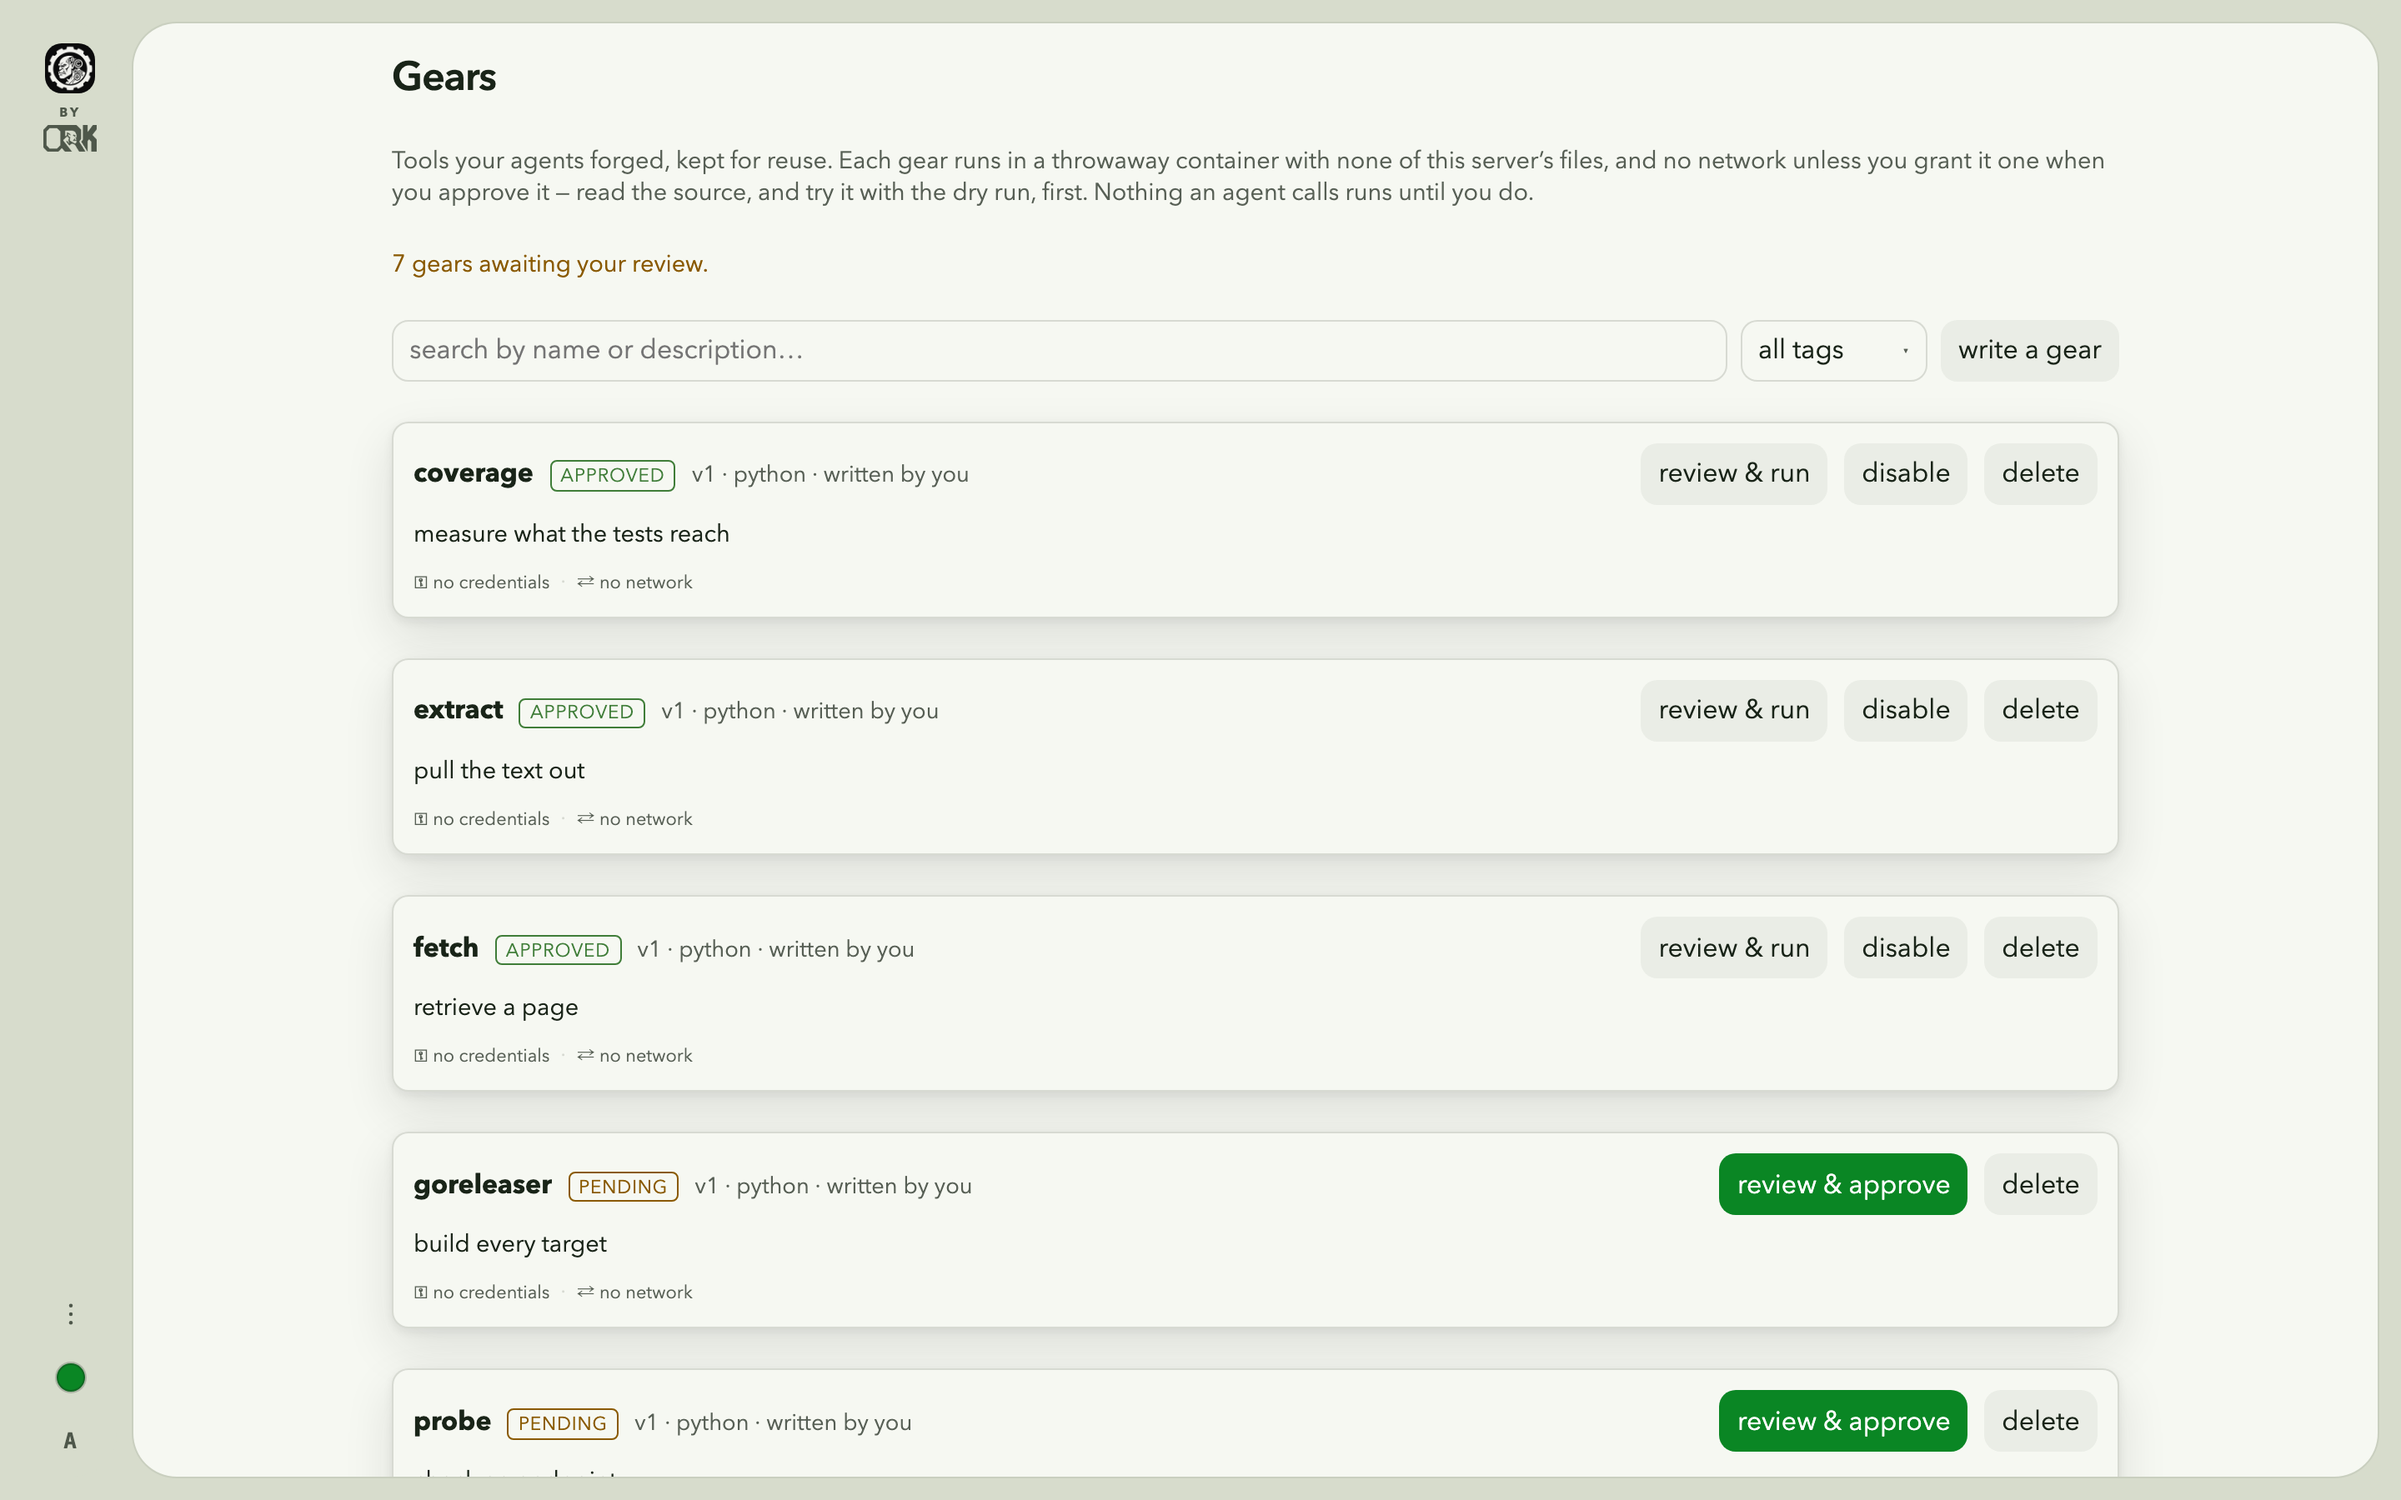
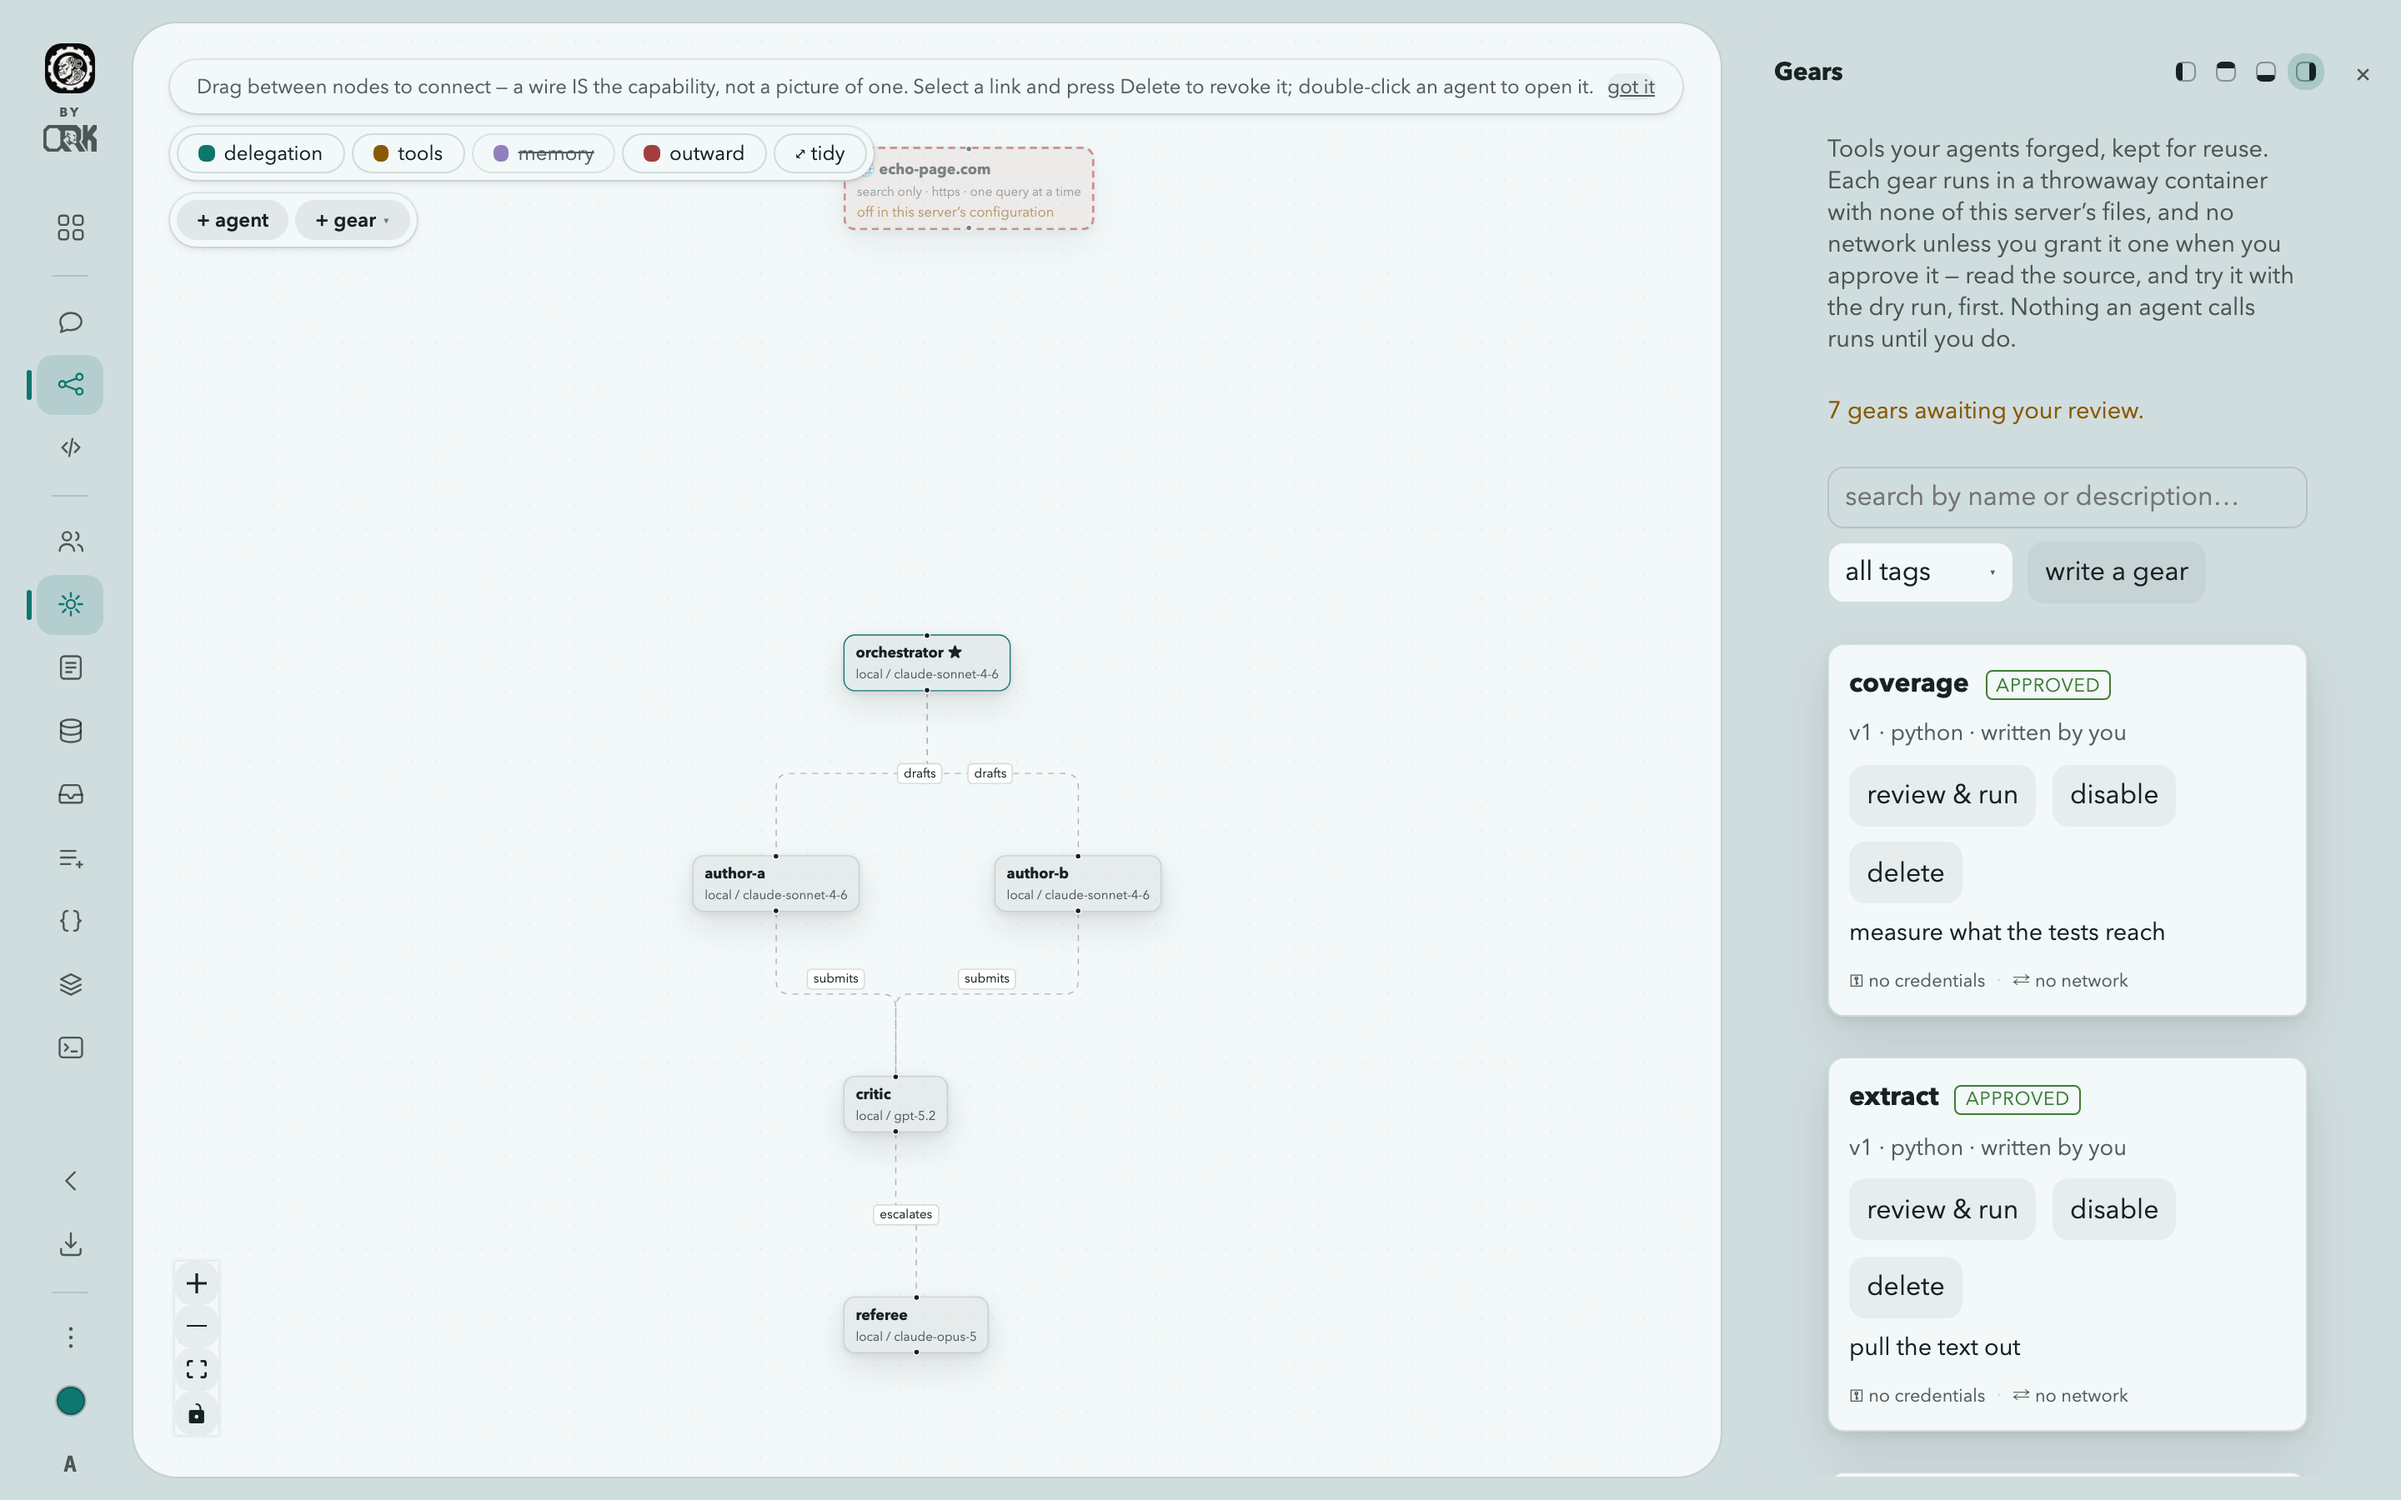
A cooler palette, and the two screens that were still photographed as windows
THE SCREENSHOTS. 07-gears and 18-context were shot at /gears and /context — the
standalone routes left over from the navigation the rail replaced — so two
pictures in a set of twenty-one showed a full window where every other one
shows a drawer. Nothing had changed about those screens; the shooter was
pointed at the wrong door.

They are taken over the BLUEPRINT now, with the drawer out, because that is the
picture that shows what a drawer is: the frame growing inward while the work
stays where it was, with the canvas visible beside it. A drawer photographed
over an empty transcript is a panel next to nothing and could be a page.

AND CONTEXT WAS ONLY A WINDOW. Gears, Instructions, Memory, Receivers, Queue,
Variables and the Terminal are all drawers; the context space — the memory
those agents actually read — was a page you left the work to visit. It is a
drawer now, admin-only, which is the rule the rest of the rail already follows.

THE PALETTE IS COOL. The default accent is teal rather than green, and more
importantly THE NEUTRALS MOVED WITH IT. They were a warm cream under a warm
off-white, chosen when the accent was green, and mixing 7% of a teal into cream
does not make it cool — it makes muddy cream. The base is a cool grey now, so
the accent sits on a ground that agrees with it and every accent an operator
can pick is at least not fighting the paper. Re-measured: still zero contrast
failures across 64 screen loads, two modes, eight accents.
[…]

diff --git a/web/src/styles/tokens.css b/web/src/styles/tokens.css
@@ -20,7 +20,7 @@
      neutral below is mixed TOWARDS it rather than being pure grey, which is
      what keeps a chosen accent from looking pasted onto somebody else's
      design: the ground, the surfaces and the borders all carry a little of it. */
-  --accent-chosen: #0a8624;
+  --accent-chosen: #0f766e;
   --accent: var(--accent-chosen);
 
   /* The bezel and the hole in it. Measured, the dark pair separated by 1.08:1
@@ -29,21 +29,28 @@
      object this whole interface is; it cannot be the thing you have to squint
      to find. Widened to about 1.3, which is where the light pair already sat
      and what a sidebar-against-editor separation reads like in every editor. */
+  /* THE NEUTRALS ARE COOL, and that is a decision rather than an absence of
+     one. They were a warm cream (#e6e3d9) under a warm off-white, chosen when
+     the default accent was green: a warm ground under a cool accent reads as
+     two palettes arguing, and mixing 7% of a teal into cream does not fix it —
+     it makes muddy cream. The base is a cool grey now, so the accent sits on a
+     ground that agrees with it, and every accent the operator can pick is at
+     least not fighting the paper. */
   --bg: light-dark(
-    color-mix(in srgb, var(--accent-chosen) 7%, #e6e3d9),
-    color-mix(in srgb, var(--accent-chosen) 7%, #090b08)
+    color-mix(in srgb, var(--accent-chosen) 7%, #dfe5e7),
+    color-mix(in srgb, var(--accent-chosen) 7%, #080a0b)
   );
   --surface: light-dark(
-    color-mix(in srgb, var(--accent-chosen) 3%, #fdfcf8),
-    color-mix(in srgb, var(--accent-chosen) 5%, #1a1e19)
+    color-mix(in srgb, var(--accent-chosen) 3%, #fafcfc),
+    color-mix(in srgb, var(--accent-chosen) 5%, #171b1d)
   );
   --surface-2: light-dark(
-    color-mix(in srgb, var(--accent-chosen) 5%, #f3f1ea),
-    color-mix(in srgb, var(--accent-chosen) 6%, #1f231e)
+    color-mix(in srgb, var(--accent-chosen) 5%, #eef2f4),
+    color-mix(in srgb, var(--accent-chosen) 6%, #1d2225)
   );
   --text: light-dark(
-    color-mix(in srgb, var(--accent-chosen) 8%, #1a1c17),
-    color-mix(in srgb, var(--accent-chosen) 8%, #eaece6)
+    color-mix(in srgb, var(--accent-chosen) 8%, #171b1d),
+    color-mix(in srgb, var(--accent-chosen) 8%, #e7ebed)
   );
   /* 58% measured between 3.6:1 and 4.2:1 on every surface in both modes and
      under all eight accents — under the 4.5:1 that ordinary text needs, which
@@ -94,8 +101,8 @@
      mode-aware — on paper it is the text's own tinted near-black, so it reads
      as shade rather than as dirt on a coloured ground; in the dark it is real
      black, because a shadow mixed towards a pale text colour is a glow. */
-  --sh-1: light-dark(rgb(26 28 23 / 0.07), rgb(0 0 0 / 0.38));
-  --sh-2: light-dark(rgb(26 28 23 / 0.11), rgb(0 0 0 / 0.52));
+  --sh-1: light-dark(rgb(23 27 29 / 0.07), rgb(0 0 0 / 0.38));
+  --sh-2: light-dark(rgb(23 27 29 / 0.11), rgb(0 0 0 / 0.52));
   --lift: 0 1px 2px var(--sh-1), 0 2px 6px var(--sh-1);
   --lift-2: 0 2px 6px var(--sh-1), 0 12px 30px var(--sh-2);
   --shadow: var(--lift-2);

diff --git a/web/src/pages/WorkspacePage.tsx b/web/src/pages/WorkspacePage.tsx
@@ -13,6 +13,7 @@ import { Select } from './Select'
 import { Deck, ShellGate, Workbench } from '../deck/Deck'
 import GearsPage from './GearsPage'
 import LibraryPage from './LibraryPage'
+import ContextPage from './ContextPage'
 import { Drawer, type Edge } from '../deck/Drawer'
 import { useDeck } from '../deck/store'
 import type { OverlayId, ViewId } from '../deck/types'
@@ -289,6 +290,11 @@ export default function WorkspacePage({ me }: { me: User }) {
     { id: 'inlets', title: 'Receivers' },
     { id: 'queue', title: 'Queue' },
     { id: 'env', title: 'Variables' },
+    // The context space, admin-only, and a drawer for the same reason
+    // everything else here is one: it is consulted while you work, not a place
+    // you go instead of working. It was the last thing that existed only as a
+    // page of its own.
+    ...(me.role === 'admin' ? [{ id: 'context' as OverlayId, title: 'Context' }] : []),
     // A terminal is pulled out and pushed back, not lived in — so it crawls
     // out of the bottom edge like the other things that happen over time,
     // rather than taking the cavity from the work it is being run against.
@@ -520,6 +526,16 @@ export default function WorkspacePage({ me }: { me: User }) {
         )}
         {overlay === 'gears' && <GearsPage me={me} review={reviewGear} />}
         {overlay === 'instructions' && <LibraryPage />}
+        {/* The space itself, where the memory being searched and edited is —
+            a drawer rather than a page you leave the work for, which is the
+            rule the rest of this rail already follows. It stays admin-only:
+            it reads and writes every document in the install. */}
+        {overlay === 'context' && me.role === 'admin' && <ContextPage />}
+        {overlay === 'context' && me.role !== 'admin' && (
+          <p className="hint">
+            The context space is an administrator's. What THIS workspace's agents read is in Memory, on each agent.
+          </p>
+        )}
         {overlay === 'memory' &&
           (selectedAgent ? (
             <AgentMemory agent={selectedAgent} onChanged={() => void reloadAgents()} onError={setError} />

diff --git a/web/src/pages/BlueprintEditor.tsx b/web/src/pages/BlueprintEditor.tsx
@@ -130,6 +130,7 @@ export default function BlueprintEditor({
   // theirs and nothing refits it under them.
   const owned = useRef(false)
   const lastFit = useRef('')
+  const flowBox = useRef<HTMLDivElement>(null)
 
   const reloadGraph = useCallback(
     () =>
@@ -446,6 +447,38 @@ export default function BlueprintEditor({
    * So it refits whenever the arrangement changes, and stops the first time
    * the operator pans, zooms or drags a node: after that the view is theirs.
    */
+  /**
+   * A drawer opening changes the size of the canvas, and the graph goes with
+   * it.
+   *
+   * React Flow keeps its viewport transform across a resize, so nodes stay at
+   * the same canvas coordinates while the window they are seen through gets
+   * narrower — which put the whole graph off screen the moment a drawer came
+   * out over the blueprint. Caught in a screenshot: the canvas empty, with the
+   * dotted ground and nothing on it.
+   *
+   * Same rule as the fit below: not once the operator has taken the view. If
+   * they panned somewhere deliberately, a drawer opening must not throw that
+   * away.
+   */
+  useEffect(() => {
+    const el = flowBox.current
+    if (!el || typeof ResizeObserver === 'undefined') return
+    let t = 0
+    const ro = new ResizeObserver(() => {
+      if (owned.current) return
+      // Debounced: a drawer's transition fires this every frame, and fitting
+      // on each one animates against the animation.
+      window.clearTimeout(t)
+      t = window.setTimeout(() => flow.current?.fitView({ padding: 0.18 }), 160)
+    })
+    ro.observe(el)
+    return () => {
+      window.clearTimeout(t)
+      ro.disconnect()
+    }
+  }, [])
+
   useEffect(() => {
     if (owned.current || nodes.length === 0 || shape === lastFit.current) return
     let raf = 0
@@ -673,6 +706,7 @@ export default function BlueprintEditor({
       )}
       </div>
       <div
+        ref={flowBox}
         className={`canvas ${drag ? 'bp-catching' : ''}`}
         onDragOver={onCanvasDragOver}
         onDragLeave={(e) => {

diff --git a/web/src/index.css b/web/src/index.css
@@ -3248,3 +3248,44 @@ button.big {
   padding: var(--s3) var(--s3) var(--s2);
   gap: var(--s3);
 }
+
+/* ── Panels that are also drawers ────────────────────────────────────────────
+   AT THE END OF THIS FILE ON PURPOSE, and this is the third time the same trap
+   has cost a change: index.css imports the other stylesheets at the top, so
+   every rule it declares itself beats an equally specific one in frame.css or
+   tokens.css. A container query does not change that — `.context-layout` in a
+   query still loses to `.context-layout` written later. Overrides for rules
+   that live in this file have to live in this file, after them.
+
+   What this fixes: the context space is a two-column grid built for a
+   full-width page — a 260px list beside the editor. In a 400px drawer that
+   leaves 140px for the editor, and the empty-state sentence rendered one word
+   per line down the right-hand edge.
+
+   A CONTAINER query rather than a viewport one, because what matters is the
+   width of the box it is in. The same panel is a page on a wide screen and a
+   drawer on that same screen a second later, and a media query cannot tell
+   those two apart. `.drawer-body` declares the container. */
+@container panel (max-width: 620px) {
+  .context-layout {
+    display: flex;
+    flex-direction: column;
+  }
+
+  /* The list keeps a share of the height rather than growing without bound: a
+     hundred documents would otherwise push the editor off the bottom. */
+  .context-files {
+    flex: 0 1 40%;
+    min-height: 6rem;
+  }
+
+  .context-editor {
+    flex: 1;
+    min-height: 0;
+  }
+
+  /* Two fields and a button abreast in 400px is three squeezed columns. */
+  .run-ask input {
+    flex: 1 1 100%;
+  }
+}

diff --git a/web/src/styles/theme.ts b/web/src/styles/theme.ts
@@ -48,7 +48,12 @@ export const ACCENTS: { name: string; hex: string }[] = [
   { name: 'Slate', hex: '#4a5568' },
 ]
 
-export const DEFAULT_THEME: Theme = { mode: 'system', accent: '#0a8624' }
+// Teal, not green. The colour is not only the accent — every neutral is mixed
+// towards it — so the default decides whether a fresh install reads warm or
+// cool, and this one should read cool. It is also the most turquoise of the
+// eight and measures 5.47:1 carrying white text as a filled button, which is
+// comfortably past the 4.5 that stopped the old green being usable at all.
+export const DEFAULT_THEME: Theme = { mode: 'system', accent: '#0f766e' }
 
 const KEY = 'cogitorium.theme'
 const HEX = /^#[0-9a-f]{6}$/i

diff --git a/web/src/shell-icons.tsx b/web/src/shell-icons.tsx
@@ -100,6 +100,14 @@ export const DRAWER_ICON: Record<string, ReactNode> = {
       <path d="M7.5 9.5 10 12l-2.5 2.5M12.5 15h4" />
     </>,
   ),
+  // The space itself: layered sheets, because that is what a versioned
+  // document store is — the same file, kept more than once.
+  context: svg(
+    <>
+      <path d="M4.5 8.2 12 4.5l7.5 3.7L12 12 4.5 8.2Z" />
+      <path d="M4.5 12.4 12 16.1l7.5-3.7M4.5 16.3 12 20l7.5-3.7" />
+    </>,
+  ),
   env: svg(
     <>
       <path d="M9.5 4.5c-2.2 0-3 1-3 3v2.2c0 1.3-.7 2-2 2.3 1.3.3 2 1 2 2.3V16.5c0 2 .8 3 3 3" />

diff --git a/web/src/deck/types.ts b/web/src/deck/types.ts
@@ -32,6 +32,7 @@ export type OverlayId =
   | 'inlets'
   | 'queue'
   | 'env'
+  | 'context'
   | 'terminal'
 
 // The order is the rail's order, and the track slides in it: going down the
@@ -46,6 +47,7 @@ export const OVERLAY_ORDER: OverlayId[] = [
   'inlets',
   'queue',
   'env',
+  'context',
   'terminal',
 ]
 
